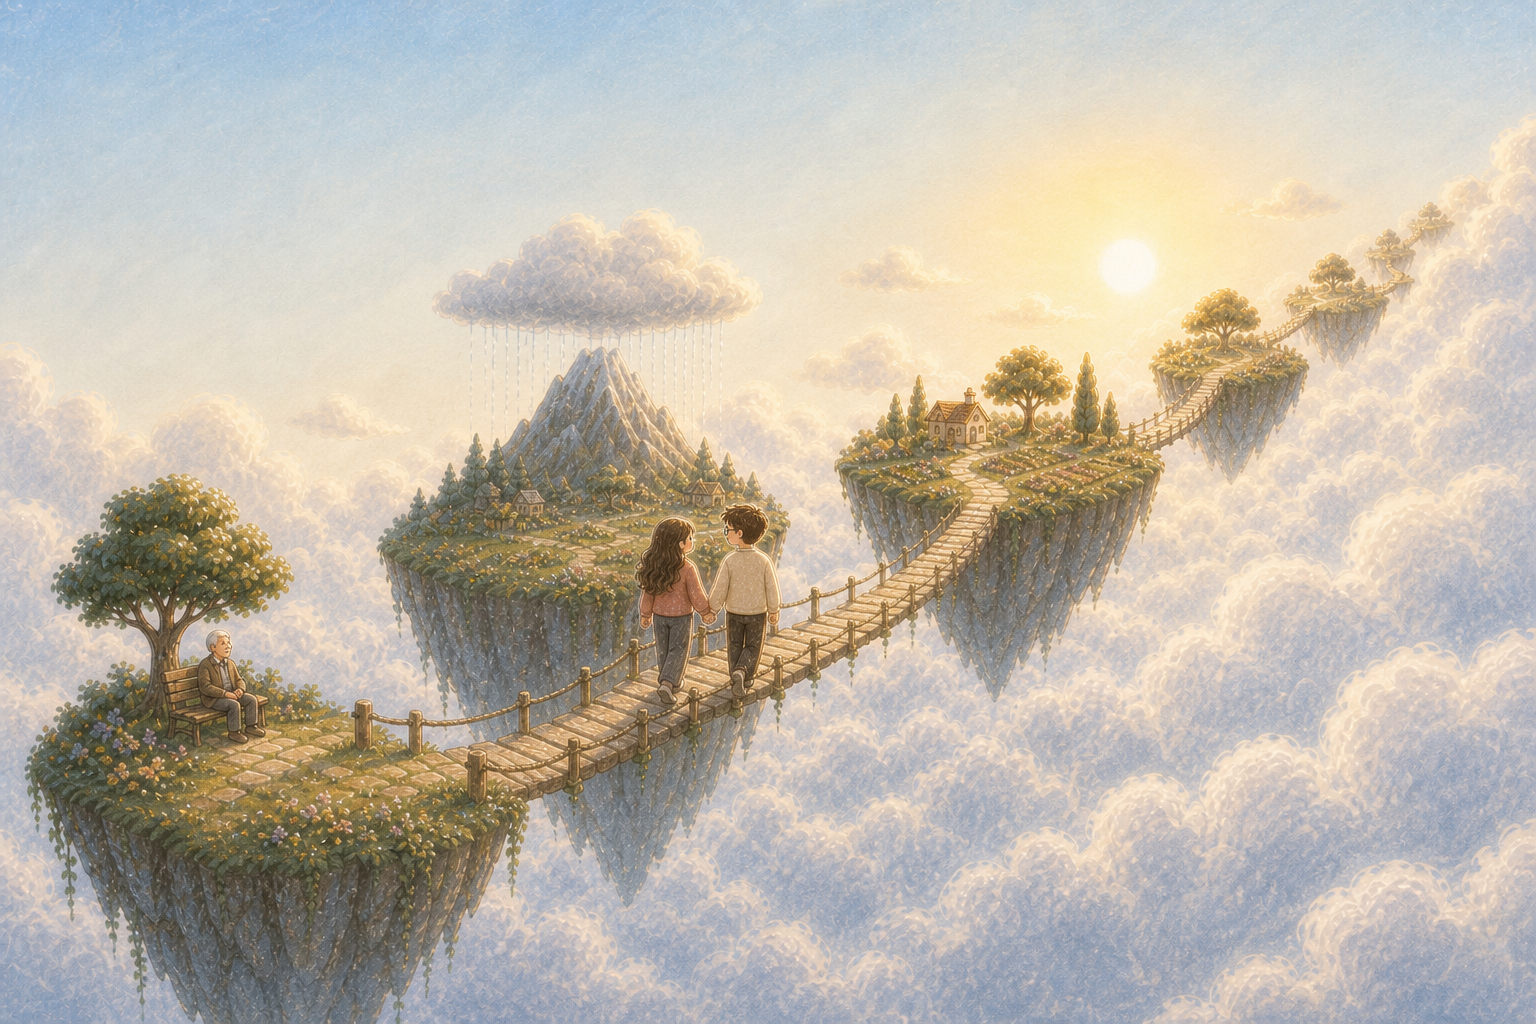
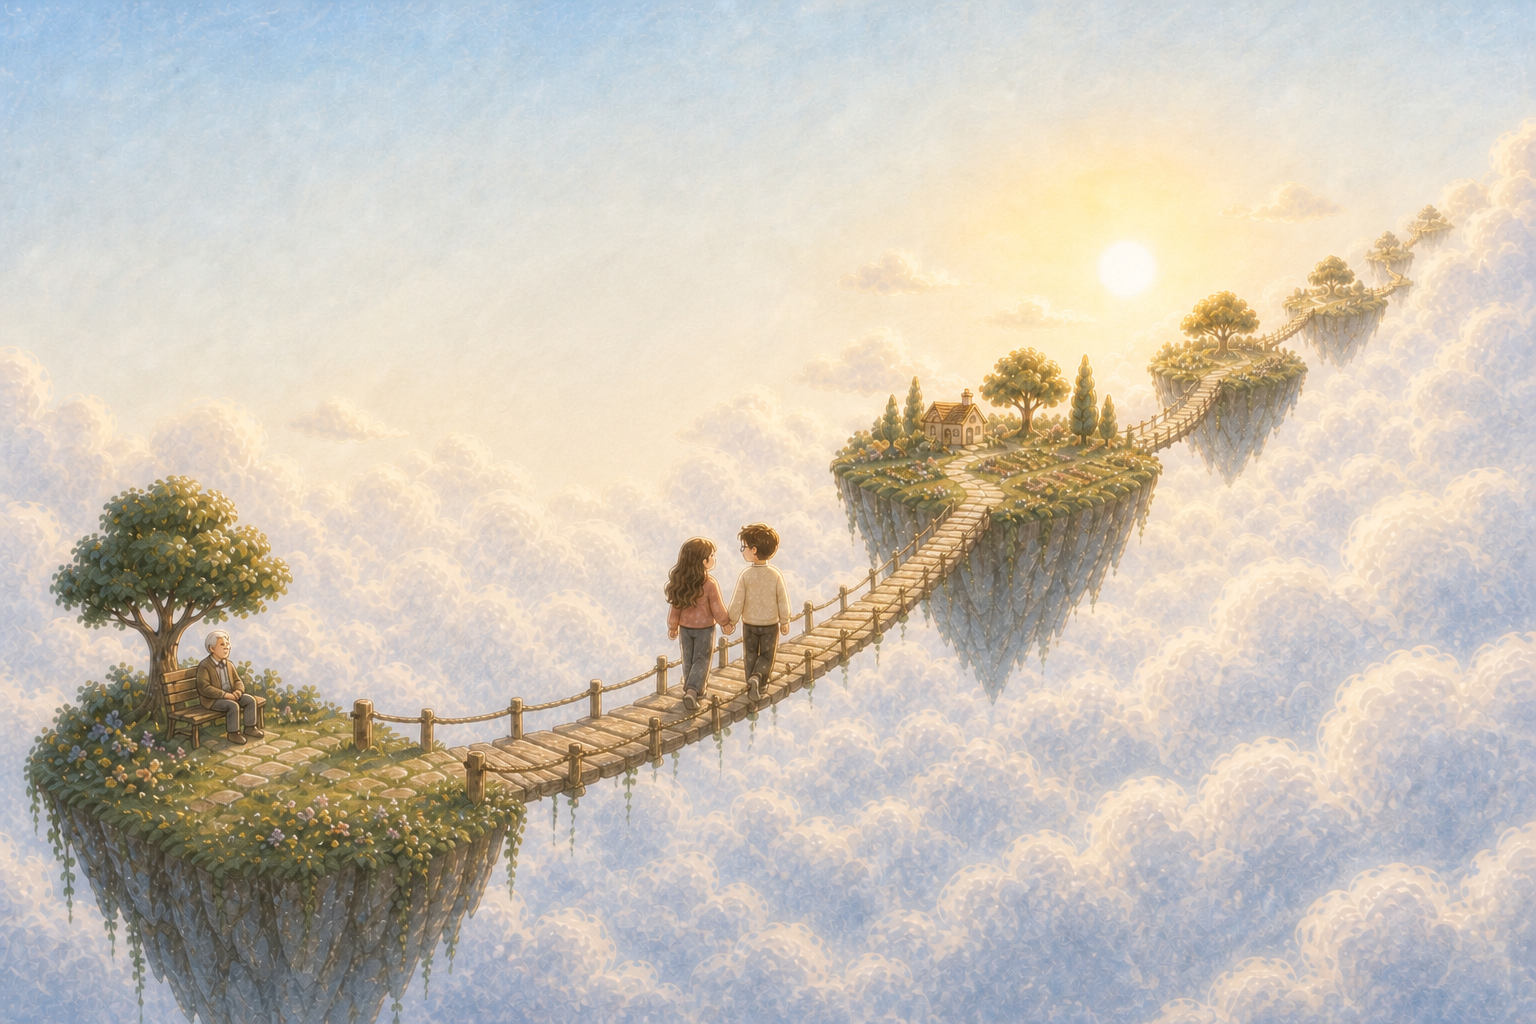
精简Reso海报文字并移除第二座岛

diff --git a/poster/index.html b/poster/index.html
@@ -90,9 +90,12 @@
 
       .copy {
         position: absolute;
-        top: 6.8%;
+        top: 7.2%;
         left: 6.6%;
-        width: 48%;
+        display: flex;
+        align-items: flex-end;
+        gap: clamp(18px, 2.2vw, 36px);
+        width: 72%;
         color: var(--ink);
         text-shadow: 0 2px 0 rgb(255 255 255 / 42%);
       }
@@ -100,7 +103,7 @@
       .brand {
         margin: 0;
         font-family: Georgia, "Times New Roman", "Songti SC", serif;
-        font-size: clamp(58px, 8.4vw, 136px);
+        font-size: clamp(72px, 9.6vw, 156px);
         font-weight: 600;
         line-height: 0.88;
         letter-spacing: -0.055em;
@@ -119,70 +122,13 @@
       }
 
       .descriptor {
-        display: flex;
-        align-items: center;
-        gap: 14px;
-        margin: clamp(13px, 1.4vw, 24px) 0 0;
+        margin: 0 0 0.74em;
         color: var(--gold);
         font-family: "STKaiti", "KaiTi", "Songti SC", serif;
-        font-size: clamp(13px, 1.25vw, 20px);
+        font-size: clamp(14px, 1.45vw, 23px);
         font-weight: 700;
-        letter-spacing: 0.32em;
-      }
-
-      .descriptor::before {
-        width: clamp(32px, 4.2vw, 66px);
-        height: 1px;
-        background: currentColor;
-        content: "";
-      }
-
-      .headline {
-        margin: clamp(18px, 2.1vw, 34px) 0 0;
-        font-family: "STKaiti", "KaiTi", "Songti SC", serif;
-        font-size: clamp(24px, 3.15vw, 50px);
-        font-weight: 700;
-        line-height: 1.24;
-        letter-spacing: 0.08em;
-      }
-
-      .headline strong {
-        color: var(--rose);
-        font-weight: inherit;
-      }
-
-      .promise {
-        max-width: 31em;
-        margin: clamp(12px, 1.4vw, 23px) 0 0;
-        color: var(--ink-soft);
-        font-family: "STKaiti", "KaiTi", "Songti SC", serif;
-        font-size: clamp(12px, 1.32vw, 21px);
-        font-weight: 600;
-        line-height: 1.7;
-        letter-spacing: 0.06em;
-      }
-
-      .journey-line {
-        position: absolute;
-        right: 5.8%;
-        bottom: 5.6%;
-        display: flex;
-        align-items: center;
-        gap: 12px;
-        margin: 0;
-        color: rgb(84 62 50 / 78%);
-        font-family: "STKaiti", "KaiTi", "Songti SC", serif;
-        font-size: clamp(11px, 1.06vw, 17px);
-        font-weight: 700;
-        letter-spacing: 0.18em;
-        text-shadow: 0 1px 0 rgb(255 255 255 / 46%);
-      }
-
-      .journey-line::before {
-        width: 26px;
-        height: 1px;
-        background: currentColor;
-        content: "";
+        letter-spacing: 0.3em;
+        white-space: nowrap;
       }
 
       .fallback {
@@ -238,17 +184,7 @@
       <section class="copy" aria-label="项目亮点">
         <h1 class="brand">Reso</h1>
         <p class="descriptor">人生底色 · 关系匹配</p>
-        <p class="headline">
-          不问你想成为谁<br />
-          只看你<strong>自然怎么选</strong>
-        </p>
-        <p class="promise">
-          在沉浸式人生情境中，理解真实底色，<br />
-          让真实的选择遇见真正合适的人。
-        </p>
       </section>
-
-      <p class="journey-line">从不同人生出发，走向真正契合的相遇</p>
       <p id="fallback" class="fallback" hidden>
         海报插画暂时无法显示，请确认图片资源与预览页位于同一目录。
       </p>
